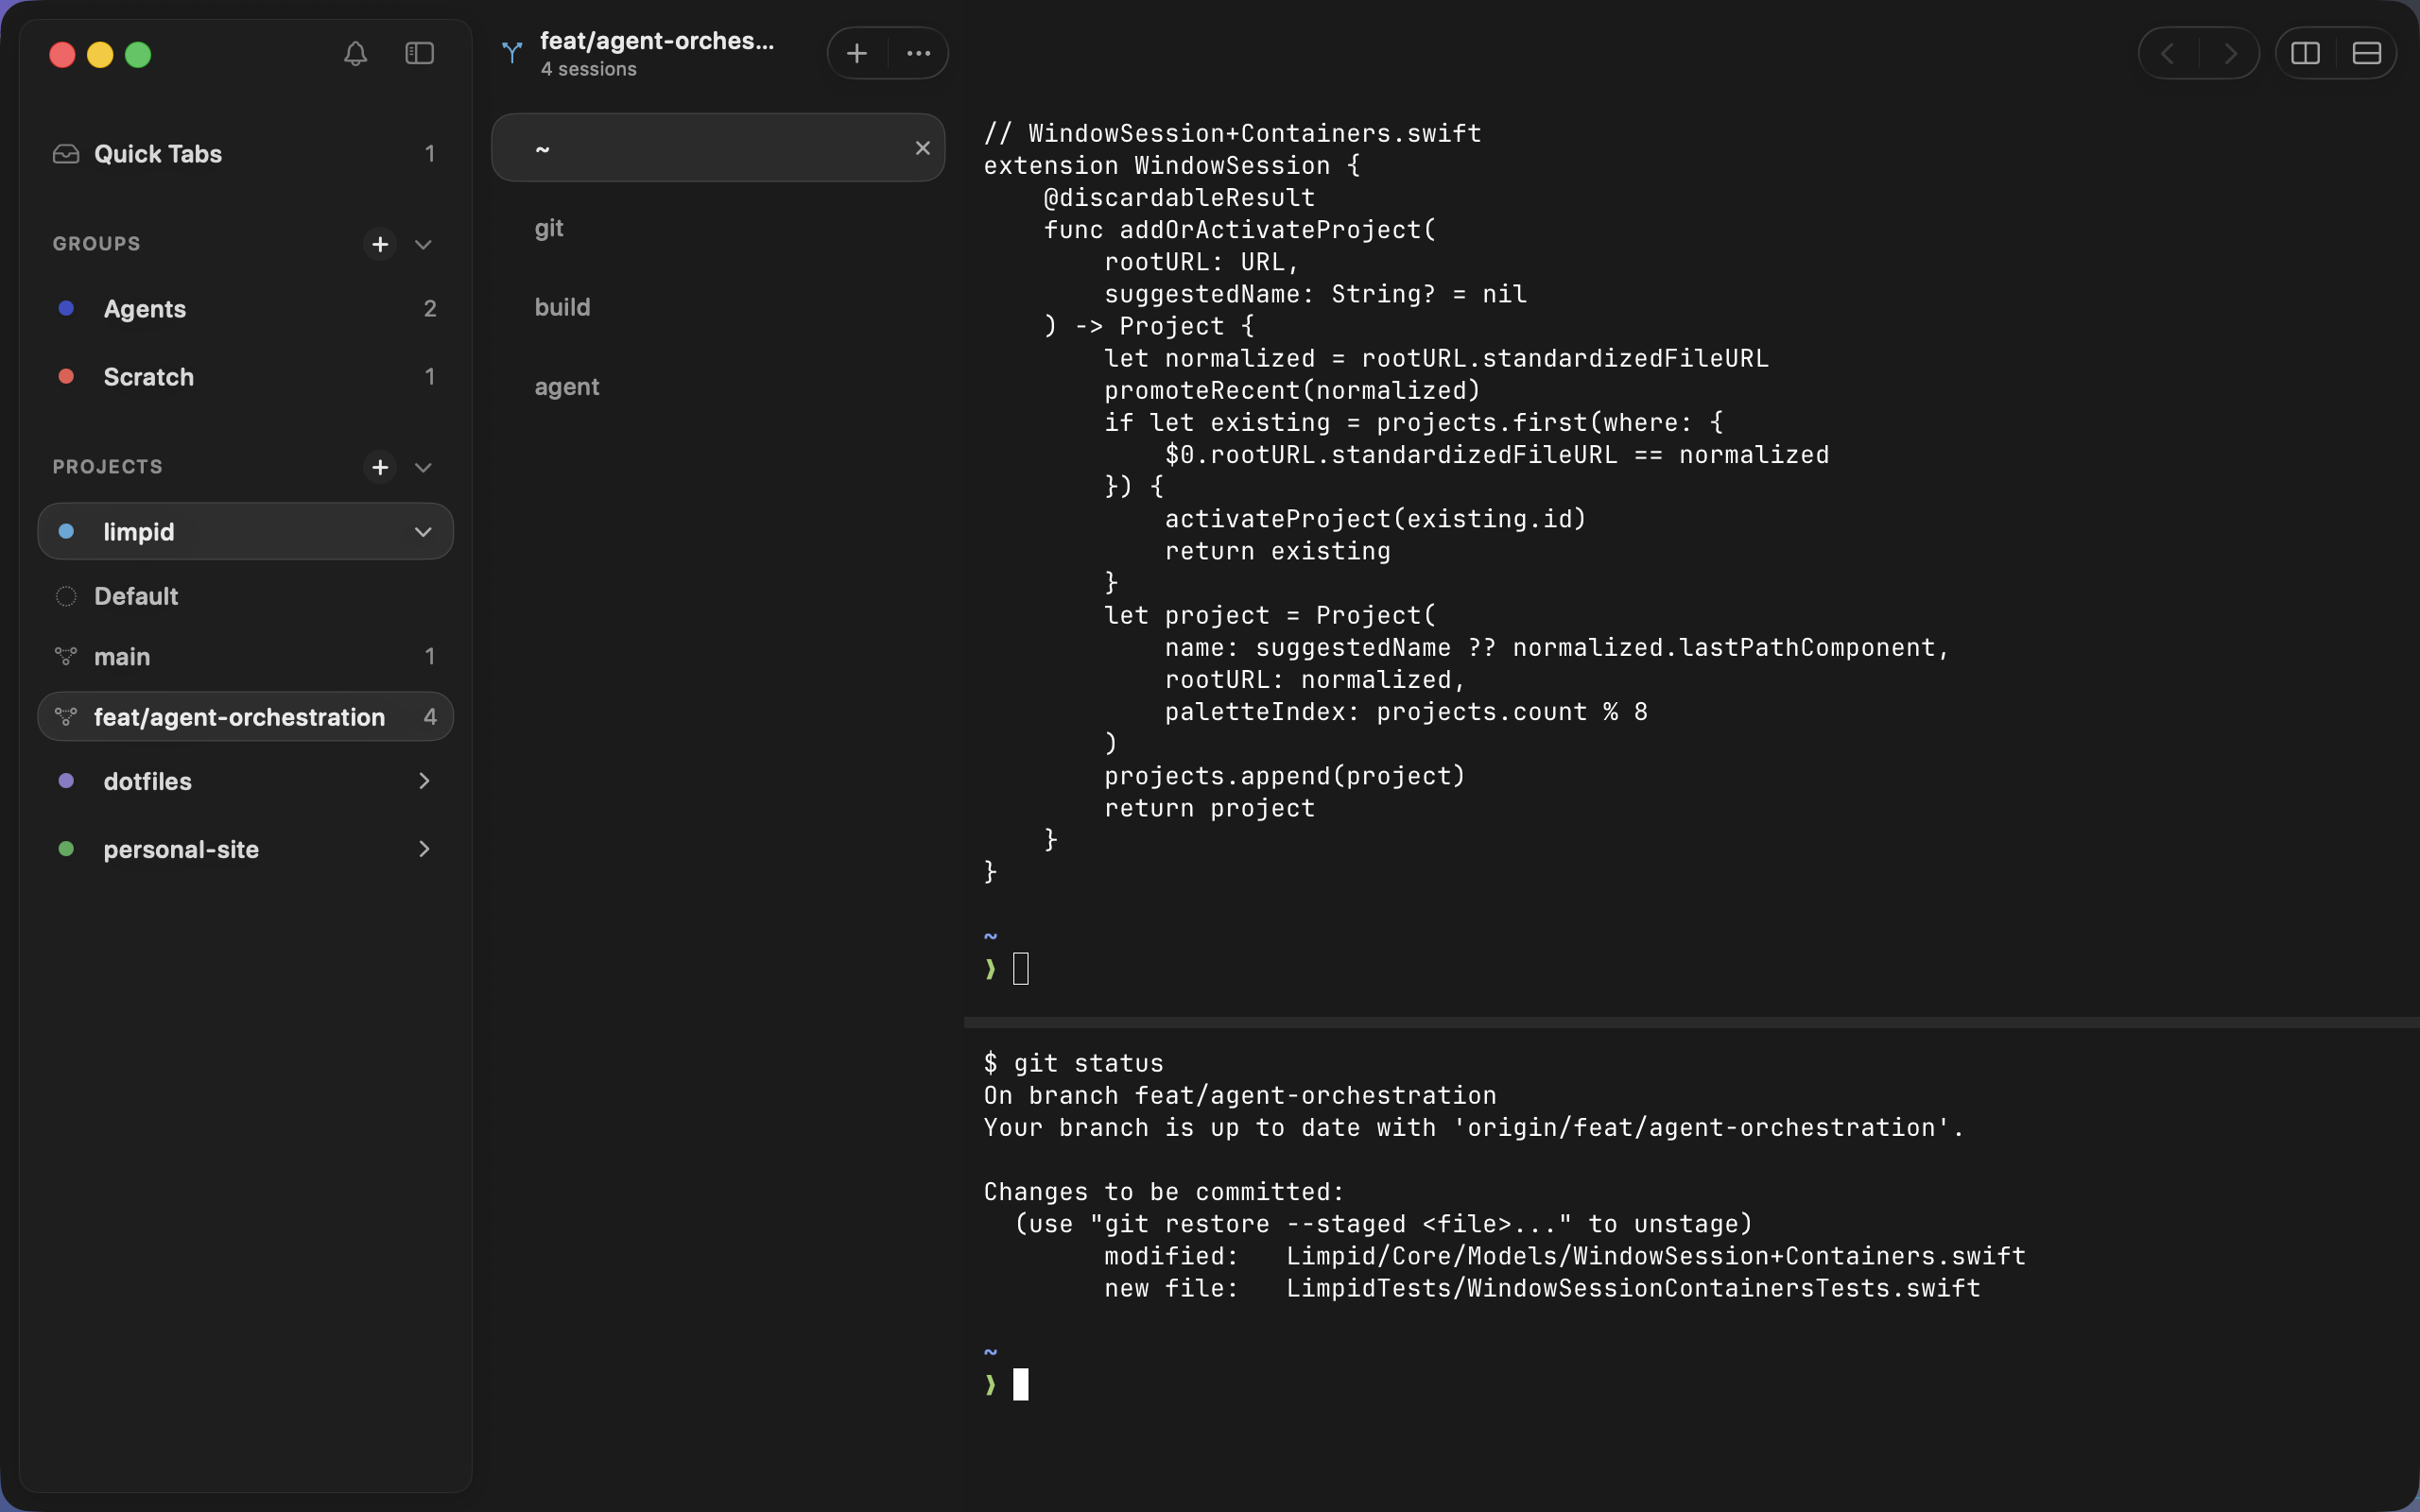
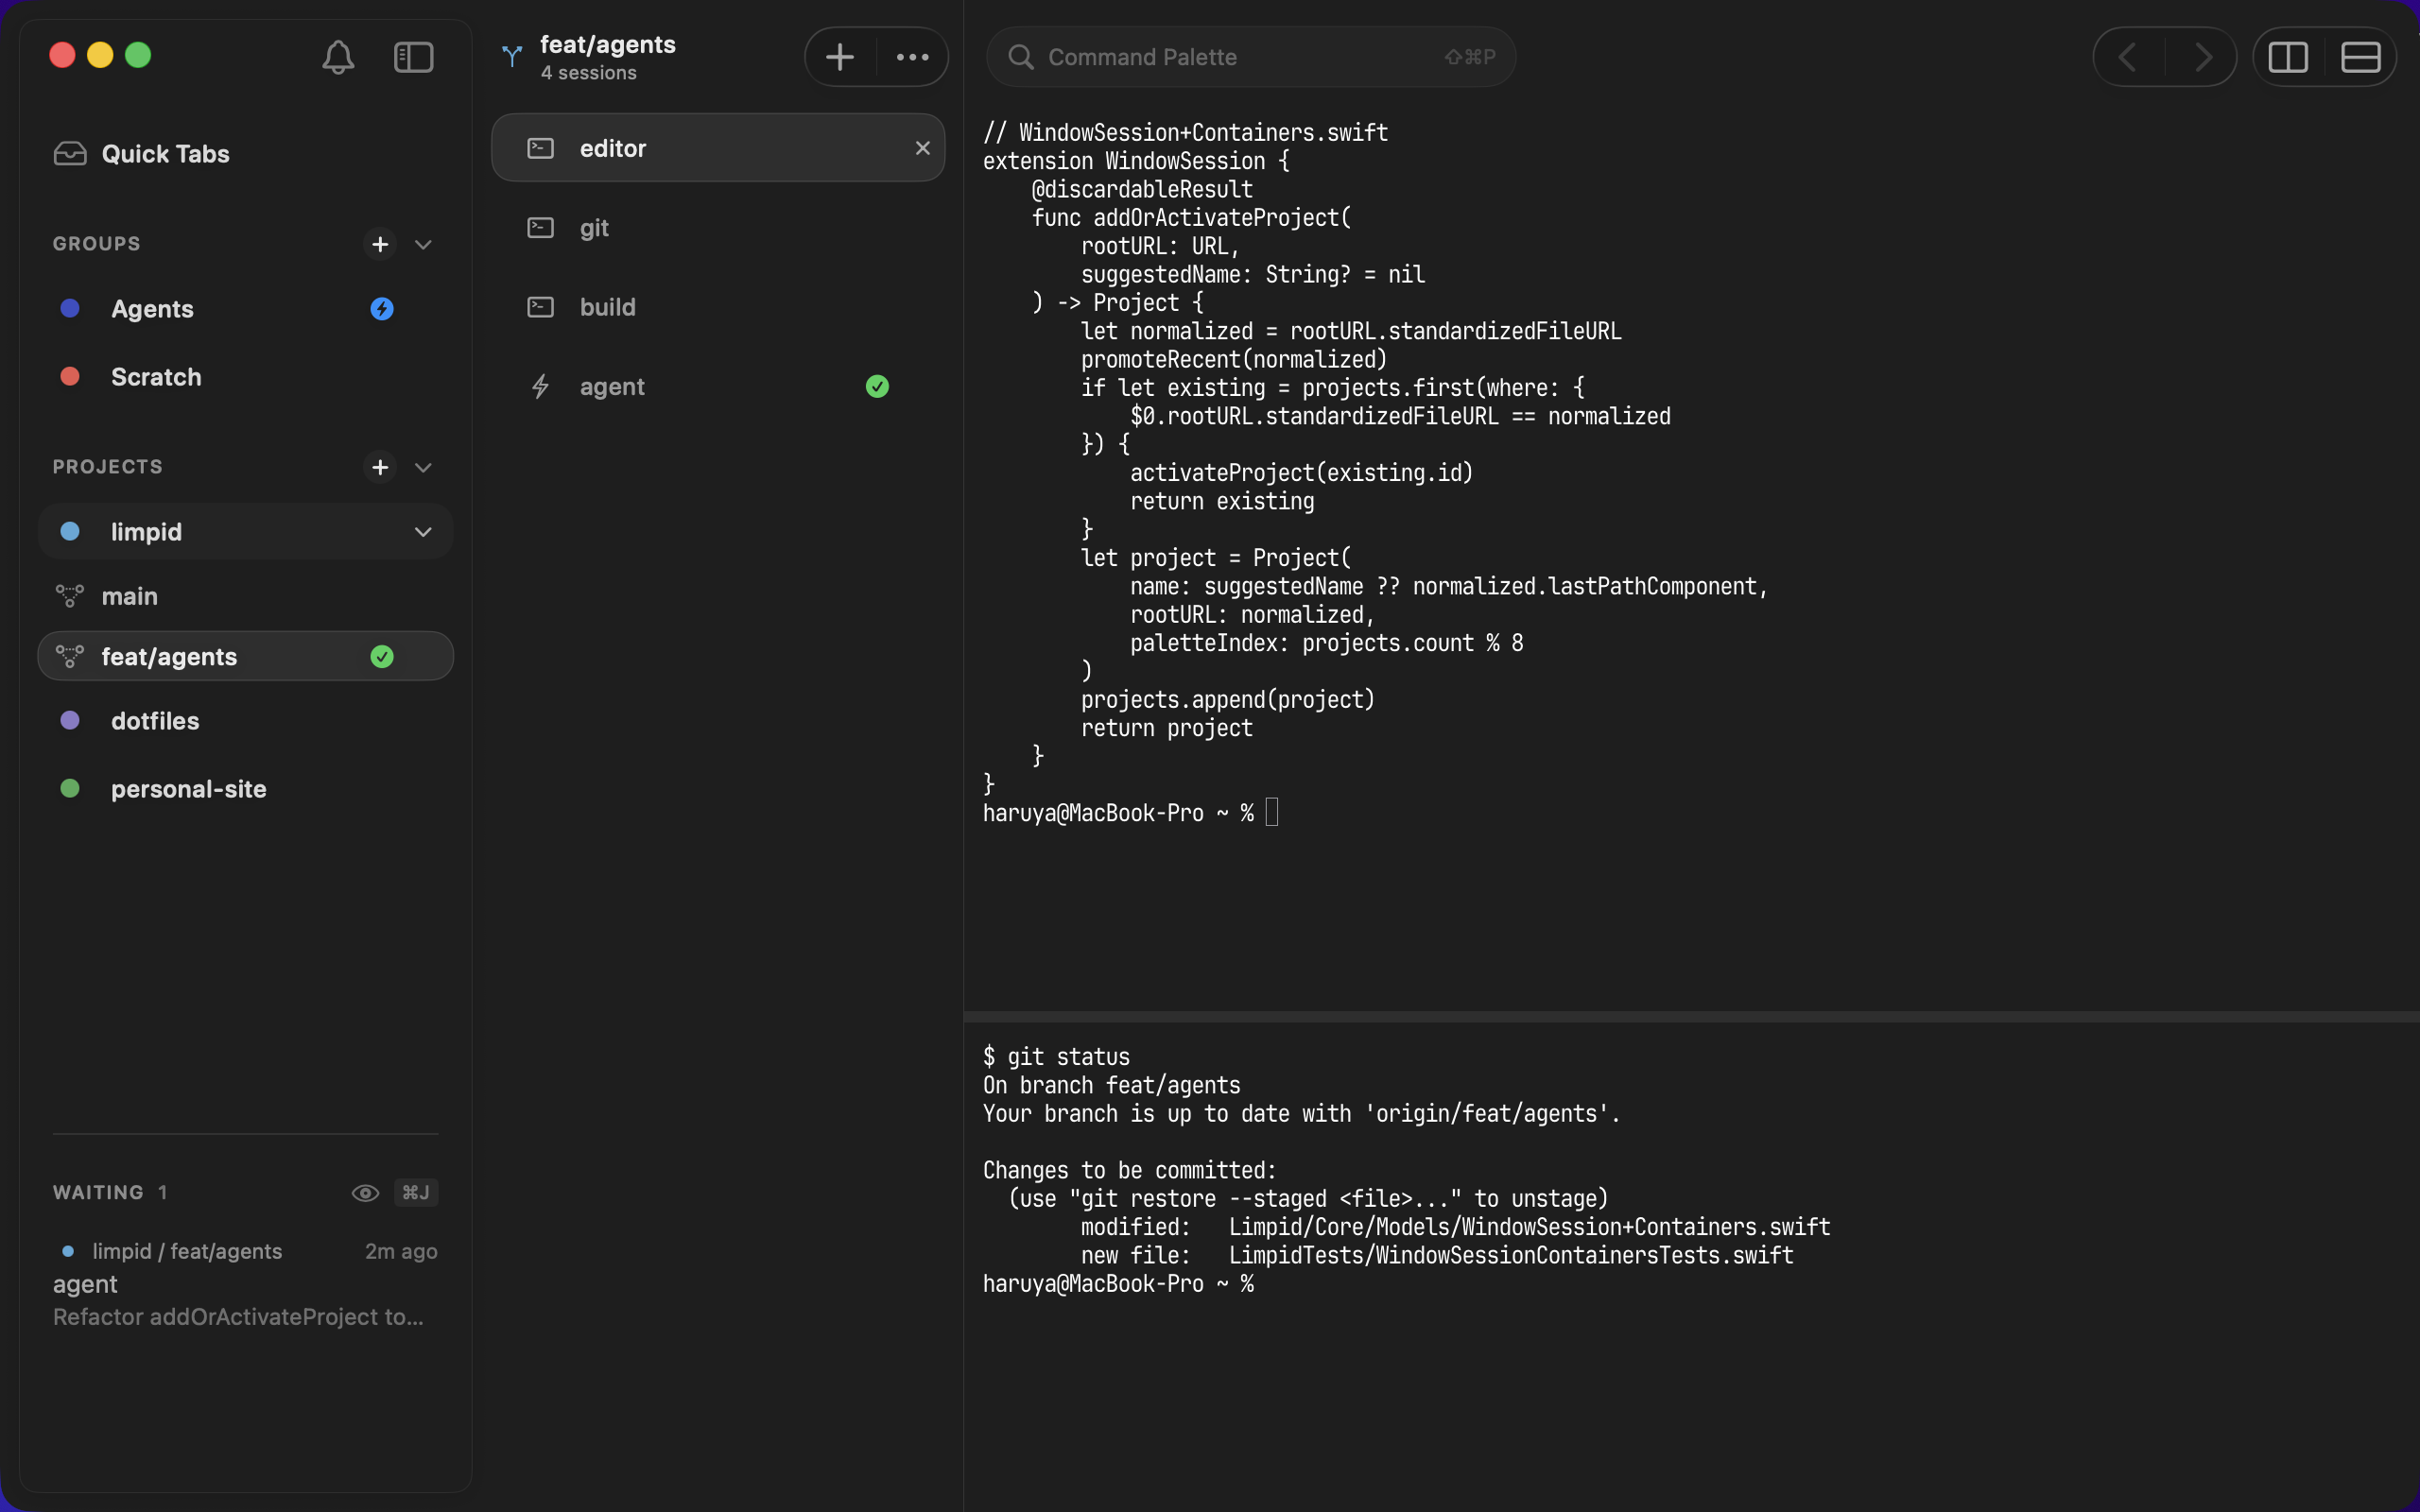
docs(readme): rework hero with WAITING + Agents demo (#97)

diff --git a/Limpid/Core/Persistence/DemoFixture.swift b/Limpid/Core/Persistence/DemoFixture.swift
@@ -24,12 +24,14 @@ enum DemoFixture {
     // MARK: - Stable IDs
 
     //
-    // Hand-rolled UUIDs keep the fixture bit-identical across runs:
-    // tests can assert against them, the snapshot encodes the same
-    // bytes every time, and the screenshot pipeline stays
-    // reproducible. **Don't change these once a hero image is
-    // shipped** — the snapshot is captured into a PNG, but the
-    // tests anchor on the UUIDs.
+    // Hand-rolled UUIDs anchor the fixture's structure across runs:
+    // tests assert against them and the screenshot pipeline always
+    // sees the same containers / tabs / panes. Wall-clock timestamps
+    // on agent badges intentionally drift (relative to `Date()` so the
+    // WAITING row reads as "2m ago" forever — see the comment near
+    // the badge), so the encoded JSON is not bit-identical across
+    // runs. **Don't change these UUIDs once a hero image is shipped**
+    // — tests anchor on them.
 
     static let agentsGroupID = UUID(uuidString: "00000000-0000-0000-0000-0000000000A1")!
     static let scratchGroupID = UUID(uuidString: "00000000-0000-0000-0000-0000000000A2")!
@@ -104,8 +106,8 @@ enum DemoFixture {
     private static let gitStatusCommand = """
     clear && cat <<'EOF'
     \u{0024} git status
-    On branch feat/agent-orchestration
-    Your branch is up to date with 'origin/feat/agent-orchestration'.
+    On branch feat/agents
+    Your branch is up to date with 'origin/feat/agents'.
 
     Changes to be committed:
       (use \"git restore --staged <file>...\" to unstage)
@@ -117,11 +119,11 @@ enum DemoFixture {
     private static let gitTabCommand = """
     clear && cat <<'EOF'
     \u{0024} git log --oneline --graph -5
-    * 6686ad5 feat(agents): orchestration scaffolding
-    * 3c195bd chore: security / perf hardening
-    * 7e5c875 docs(readme): simplify
-    * 98372c9 feat: baseline implementation
-    * 0155870 initial empty commit
+    * 6686ad5 feat(agents): cross-pane WAITING list and ⌘J cursor
+    * 3c195bd feat(tab): name tabs from the agent conversation
+    * 7e5c875 feat(chrome): scale up header icons to Apple metrics
+    * 98372c9 fix(codex): only export CODEX_HOME when shadow dir exists
+    * 0155870 feat(transparency): follow Reduce Transparency live
     EOF
     """
 
@@ -142,7 +144,9 @@ enum DemoFixture {
     > Refactor addOrActivateProject to return a Result so callers can
       surface filesystem errors instead of silently falling back.
 
-    Reading WindowSession+Containers.swift...
+    Read WindowSession+Containers.swift
+    Edit WindowSession+Containers.swift
+    Done.
     EOF
     """
 
@@ -165,9 +169,9 @@ enum DemoFixture {
         )
         let limpidFeatWorktree = Worktree(
             id: limpidFeatWorktreeID,
-            label: "feat/agent-orchestration",
+            label: "feat/agents",
             workingDirectory: limpidRoot.deletingLastPathComponent()
-                .appendingPathComponent("limpid-feat-agent-orchestration"),
+                .appendingPathComponent("limpid-feat-agents"),
             origin: .userPinned
         )
 
@@ -207,6 +211,10 @@ enum DemoFixture {
         var editorTab = Tab(
             id: editorTabID,
             title: "editor",
+            // Pin the label so OSC 2 (`~`) doesn't replace "editor" when
+            // the split panes activate — matches `singlePaneTab`'s
+            // titleOverride trick.
+            titleOverride: "editor",
             splitTree: SplitTree(
                 root: .split(SplitData(
                     direction: .vertical,
@@ -244,6 +252,44 @@ enum DemoFixture {
             paneID: agentTabPaneID
         )
         agentTab.initialCommands[agentTabPaneID] = agentTabCommand
+        // Park the agent pane on a finished turn so the L1 WAITING list
+        // carries one entry and the L2 row shows a green checkmark —
+        // the shape a real Claude `Stop` event produces. Timestamps
+        // are relative to *now* (not a fixed epoch) so the WAITING row
+        // reads as a fresh "2m ago" each launch instead of drifting
+        // into "514d ago" as the README ages. The snapshot is no
+        // longer bit-identical across runs, but the demo is captured
+        // to a PNG before that matters — tests anchor on UUIDs.
+        agentTab.claudeAgentBadges[agentTabPaneID] = ClaudeAgentBadge(
+            state: .finished,
+            detail: nil,
+            runStartedAt: nil,
+            contextTokens: nil,
+            updatedAt: Date(timeIntervalSinceNow: -120),
+            lastPrompt: "Refactor addOrActivateProject to return a Result"
+                + " so callers can surface filesystem errors"
+                + " instead of silently falling back.",
+            sessionStartedAt: Date(timeIntervalSinceNow: -3600)
+        )
+
+        // Park the `claude` tab in the Agents group on a *running* turn
+        // so the L1 Agents row carries the blue bolt — a live agent
+        // working off-screen, the other half of the WAITING story.
+        var agentsClaudeTab = singlePaneTab(
+            id: agentsClaudeTabID,
+            title: "claude",
+            container: .group(agentsGroupID),
+            paneID: agentsClaudePaneID
+        )
+        agentsClaudeTab.claudeAgentBadges[agentsClaudePaneID] = ClaudeAgentBadge(
+            state: .running,
+            detail: "Edit",
+            runStartedAt: Date(timeIntervalSinceNow: -30),
+            contextTokens: nil,
+            updatedAt: Date(timeIntervalSinceNow: -5),
+            lastPrompt: "Audit the L1 sidebar selection contrast in light mode.",
+            sessionStartedAt: Date(timeIntervalSinceNow: -900)
+        )
 
         let tabs: [Tab] = [
             singlePaneTab(
@@ -252,12 +298,7 @@ enum DemoFixture {
                 container: .loose,
                 paneID: looseTabPaneID
             ),
-            singlePaneTab(
-                id: agentsClaudeTabID,
-                title: "claude",
-                container: .group(agentsGroupID),
-                paneID: agentsClaudePaneID
-            ),
+            agentsClaudeTab,
             singlePaneTab(
                 id: agentsCodexTabID,
                 title: "codex",
@@ -310,6 +351,12 @@ enum DemoFixture {
         Tab(
             id: id,
             title: title,
+            // Demo tabs pin a `titleOverride` matching `title` so the
+            // shell's OSC 2 pwd report (e.g. `~`) doesn't clobber the
+            // fixture's named label once the pane is activated. Same
+            // mechanism the user's manual rename uses, so `displayTitle`
+            // keeps "agent" / "git" / "build" across taps.
+            titleOverride: title,
             splitTree: SplitTree(leafID: paneID),
             container: container
         )

diff --git a/Limpid/UI/Settings/SettingsStore.swift b/Limpid/UI/Settings/SettingsStore.swift
@@ -91,7 +91,14 @@ final class SettingsStore {
     init() {
         let raw = UserDefaults.standard.string(forKey: Self.appLanguageDefaultsKey)
             ?? AppLanguage.system.rawValue
-        self.appLanguage = AppLanguage(rawValue: raw) ?? .system
+        let stored = AppLanguage(rawValue: raw) ?? .system
+        // Demo mode pins the SwiftUI tree to English so the README hero
+        // screenshot reads the same regardless of the contributor's OS
+        // locale. UserDefaults stays untouched so the user's real
+        // preference survives a `LIMPID_DEMO=1` run. AppKit menu bar
+        // still follows `AppleLanguages` (untouched here) — capture
+        // pipelines crop to the SwiftUI window content.
+        self.appLanguage = DemoFixture.isDemoActive ? .english : stored
         var loaded = Self.loadFromDiskOrDefault()
         // The hero screenshot pipeline runs under `LIMPID_DEMO=1`.
         // Force the chrome opaque there so the captured PNG doesn't

diff --git a/Limpid/Core/Claude/ClaudeAgentStateTracker.swift b/Limpid/Core/Claude/ClaudeAgentStateTracker.swift
@@ -90,6 +90,14 @@ final class ClaudeAgentStateTracker {
         self.session = session
         self.triage = triage
         self.notificationManager = notificationManager
+        // Demo mode treats `DemoFixture` as the whole truth: any badge
+        // we'd pull from `~/Library/.../agent-states` would clobber the
+        // in-memory fixture (the disk lookup deletes badges for panes
+        // that have no record). Skip the disk sync + watchers entirely.
+        guard !DemoFixture.isDemoActive else {
+            hasBootstrapped = true
+            return
+        }
         applyAllRecordsToSession()
         hasBootstrapped = true
         startDirectoryWatch()

diff --git a/Limpid/Core/Codex/CodexAgentStateTracker.swift b/Limpid/Core/Codex/CodexAgentStateTracker.swift
@@ -60,6 +60,12 @@ final class CodexAgentStateTracker {
         self.session = session
         self.triage = triage
         self.notificationManager = notificationManager
+        // Same demo-mode guard as `ClaudeAgentStateTracker.bootstrap`:
+        // skip the disk sync so `DemoFixture` stays the source of truth.
+        guard !DemoFixture.isDemoActive else {
+            hasBootstrapped = true
+            return
+        }
         applyAllRecordsToSession()
         hasBootstrapped = true
         startDirectoryWatch()

diff --git a/README.md b/README.md
@@ -2,39 +2,40 @@
 
 [![License: MIT](https://img.shields.io/badge/license-MIT-blue.svg)](LICENSE)
 [![CI](https://github.com/nek0der/limpid/actions/workflows/ci.yml/badge.svg)](https://github.com/nek0der/limpid/actions/workflows/ci.yml)
+[![Release](https://img.shields.io/github/v/release/nek0der/limpid?sort=semver)](https://github.com/nek0der/limpid/releases/latest)
 ![macOS 26+](https://img.shields.io/badge/macOS-26%2B-black)
 
-> A macOS-native terminal for the AI coding agent era — built on libghostty, designed around projects, worktrees, and parallel sessions.
+> A calm, native macOS terminal with agent-aware worktrees, built on libghostty.
 
-<p align="center"><img src=".github/assets/hero.png" alt="Limpid screenshot" width="800" /></p>
+<p align="center"><img src=".github/assets/hero.png" alt="Limpid screenshot" width="900" /></p>
 
-## Why Limpid?
+## Features
 
-- **libghostty under a Mac-native shell.** Ghostty's renderer + parser + shell-integration core, wrapped in a SwiftUI app that feels like something Apple would ship — Liquid Glass chrome, full IME, native menus, Sparkle updates.
-- **Projects and worktrees are first-class.** A three-pane sidebar (loose tabs → groups → projects → git worktrees) keeps every repository, branch, and agent session in its own scope. No more 30 anonymous tabs.
-- **Built for parallel AI sessions.** Tab/group/project containers are designed so a Claude Code or Codex run can own its own pane tree without colliding with your editing shell.
+### Next-attention cursor (⌘J)
+Across every tab and pane, ⌘J jumps to the next agent waiting on you. The WAITING list at the bottom of the sidebar shows the queue in priority order.
 
-## Status
+### Worktrees as first-class containers
+Each git worktree gets its own space. Tabs, panes, and agent sessions stay isolated per branch.
 
-**Pre-alpha**, but usable for everyday terminal work. Requires **macOS 26 (Tahoe) or later** and Apple Silicon. APIs and storage format may change between minor versions; auto-updates will pick up breaking changes for you.
+### Claude Code & Codex, together
+Both CLIs are recognized natively, with live status, prompt-aware tab names, and per-pane session resume that survives restarts.
+
+### Designed to disappear
+A Notes-2026 style sidebar plus Liquid Glass chrome — calm, out of the way, native.
 
 ## Install
 
-Grab the latest signed + notarized DMG from the [Releases page](https://github.com/nek0der/limpid/releases/latest), open it, and drag `Limpid.app` to `/Applications`. Sparkle handles updates from then on.
+[Latest DMG](https://github.com/nek0der/limpid/releases/latest) — drag `Limpid.app` to `/Applications`. Sparkle handles updates from then on.
 
-If you want to hack on Limpid instead, see [CONTRIBUTING.md](CONTRIBUTING.md#setup) for build instructions.
+Building from source: [CONTRIBUTING.md](CONTRIBUTING.md#setup).
 
-## Usage
+## Status
 
-Limpid is a SwiftUI app — all commands live in the macOS menu bar with their keyboard shortcuts shown next to each item. `⌘,` opens Settings. The sidebar (`⌘B` to toggle) is the main navigation surface for tabs, groups, projects, and git worktrees.
-
-## Roadmap
-
-See [open issues](https://github.com/nek0der/limpid/issues) and the [`roadmap` label](https://github.com/nek0der/limpid/issues?q=is%3Aissue+label%3Aroadmap) for what's planned next.
+Pre-alpha. macOS 26 (Tahoe) and Apple Silicon required.
 
 ## Contributing
 
-PRs welcome. See [CONTRIBUTING.md](CONTRIBUTING.md) for the workflow, [CODE_OF_CONDUCT.md](CODE_OF_CONDUCT.md) for ground rules, and [SECURITY.md](SECURITY.md) for vulnerability reporting. Release notes live in [CHANGELOG.md](CHANGELOG.md). Questions and ideas: [Discussions](https://github.com/nek0der/limpid/discussions).
+PRs welcome. See [CONTRIBUTING.md](CONTRIBUTING.md), [SECURITY.md](SECURITY.md), and [CHANGELOG.md](CHANGELOG.md). Questions and ideas go in [Discussions](https://github.com/nek0der/limpid/discussions).
 
 ## License
 